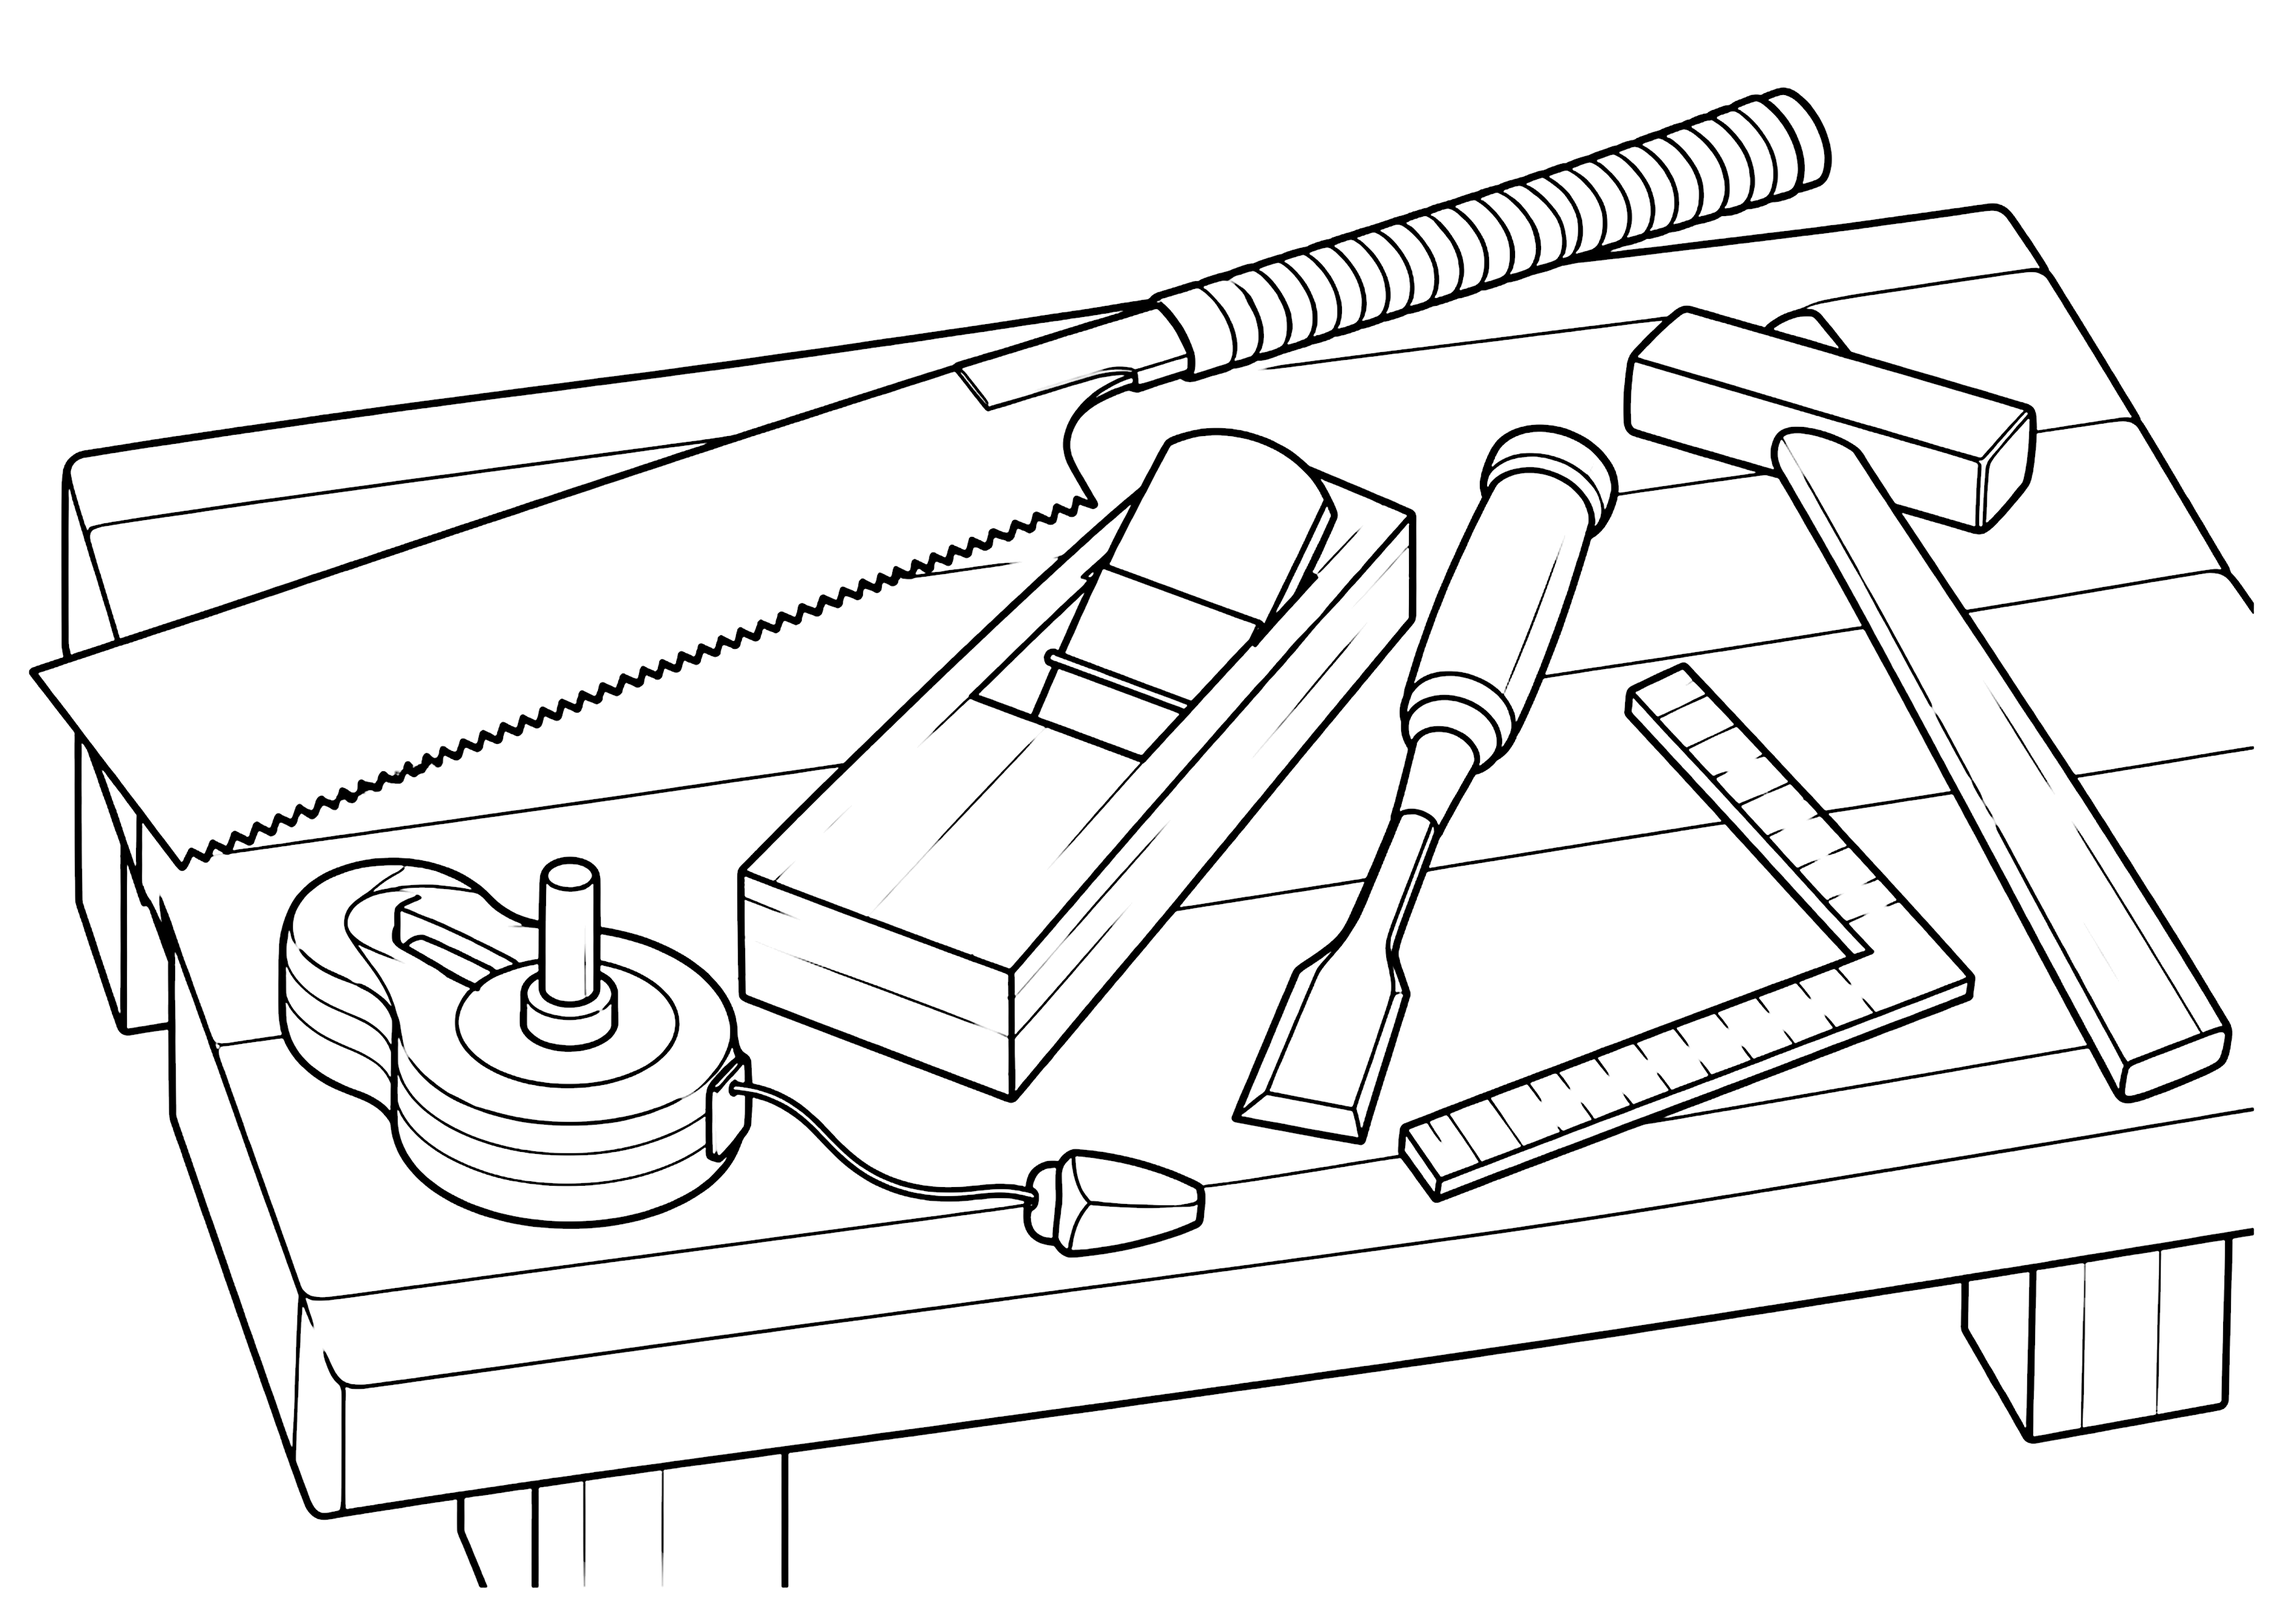
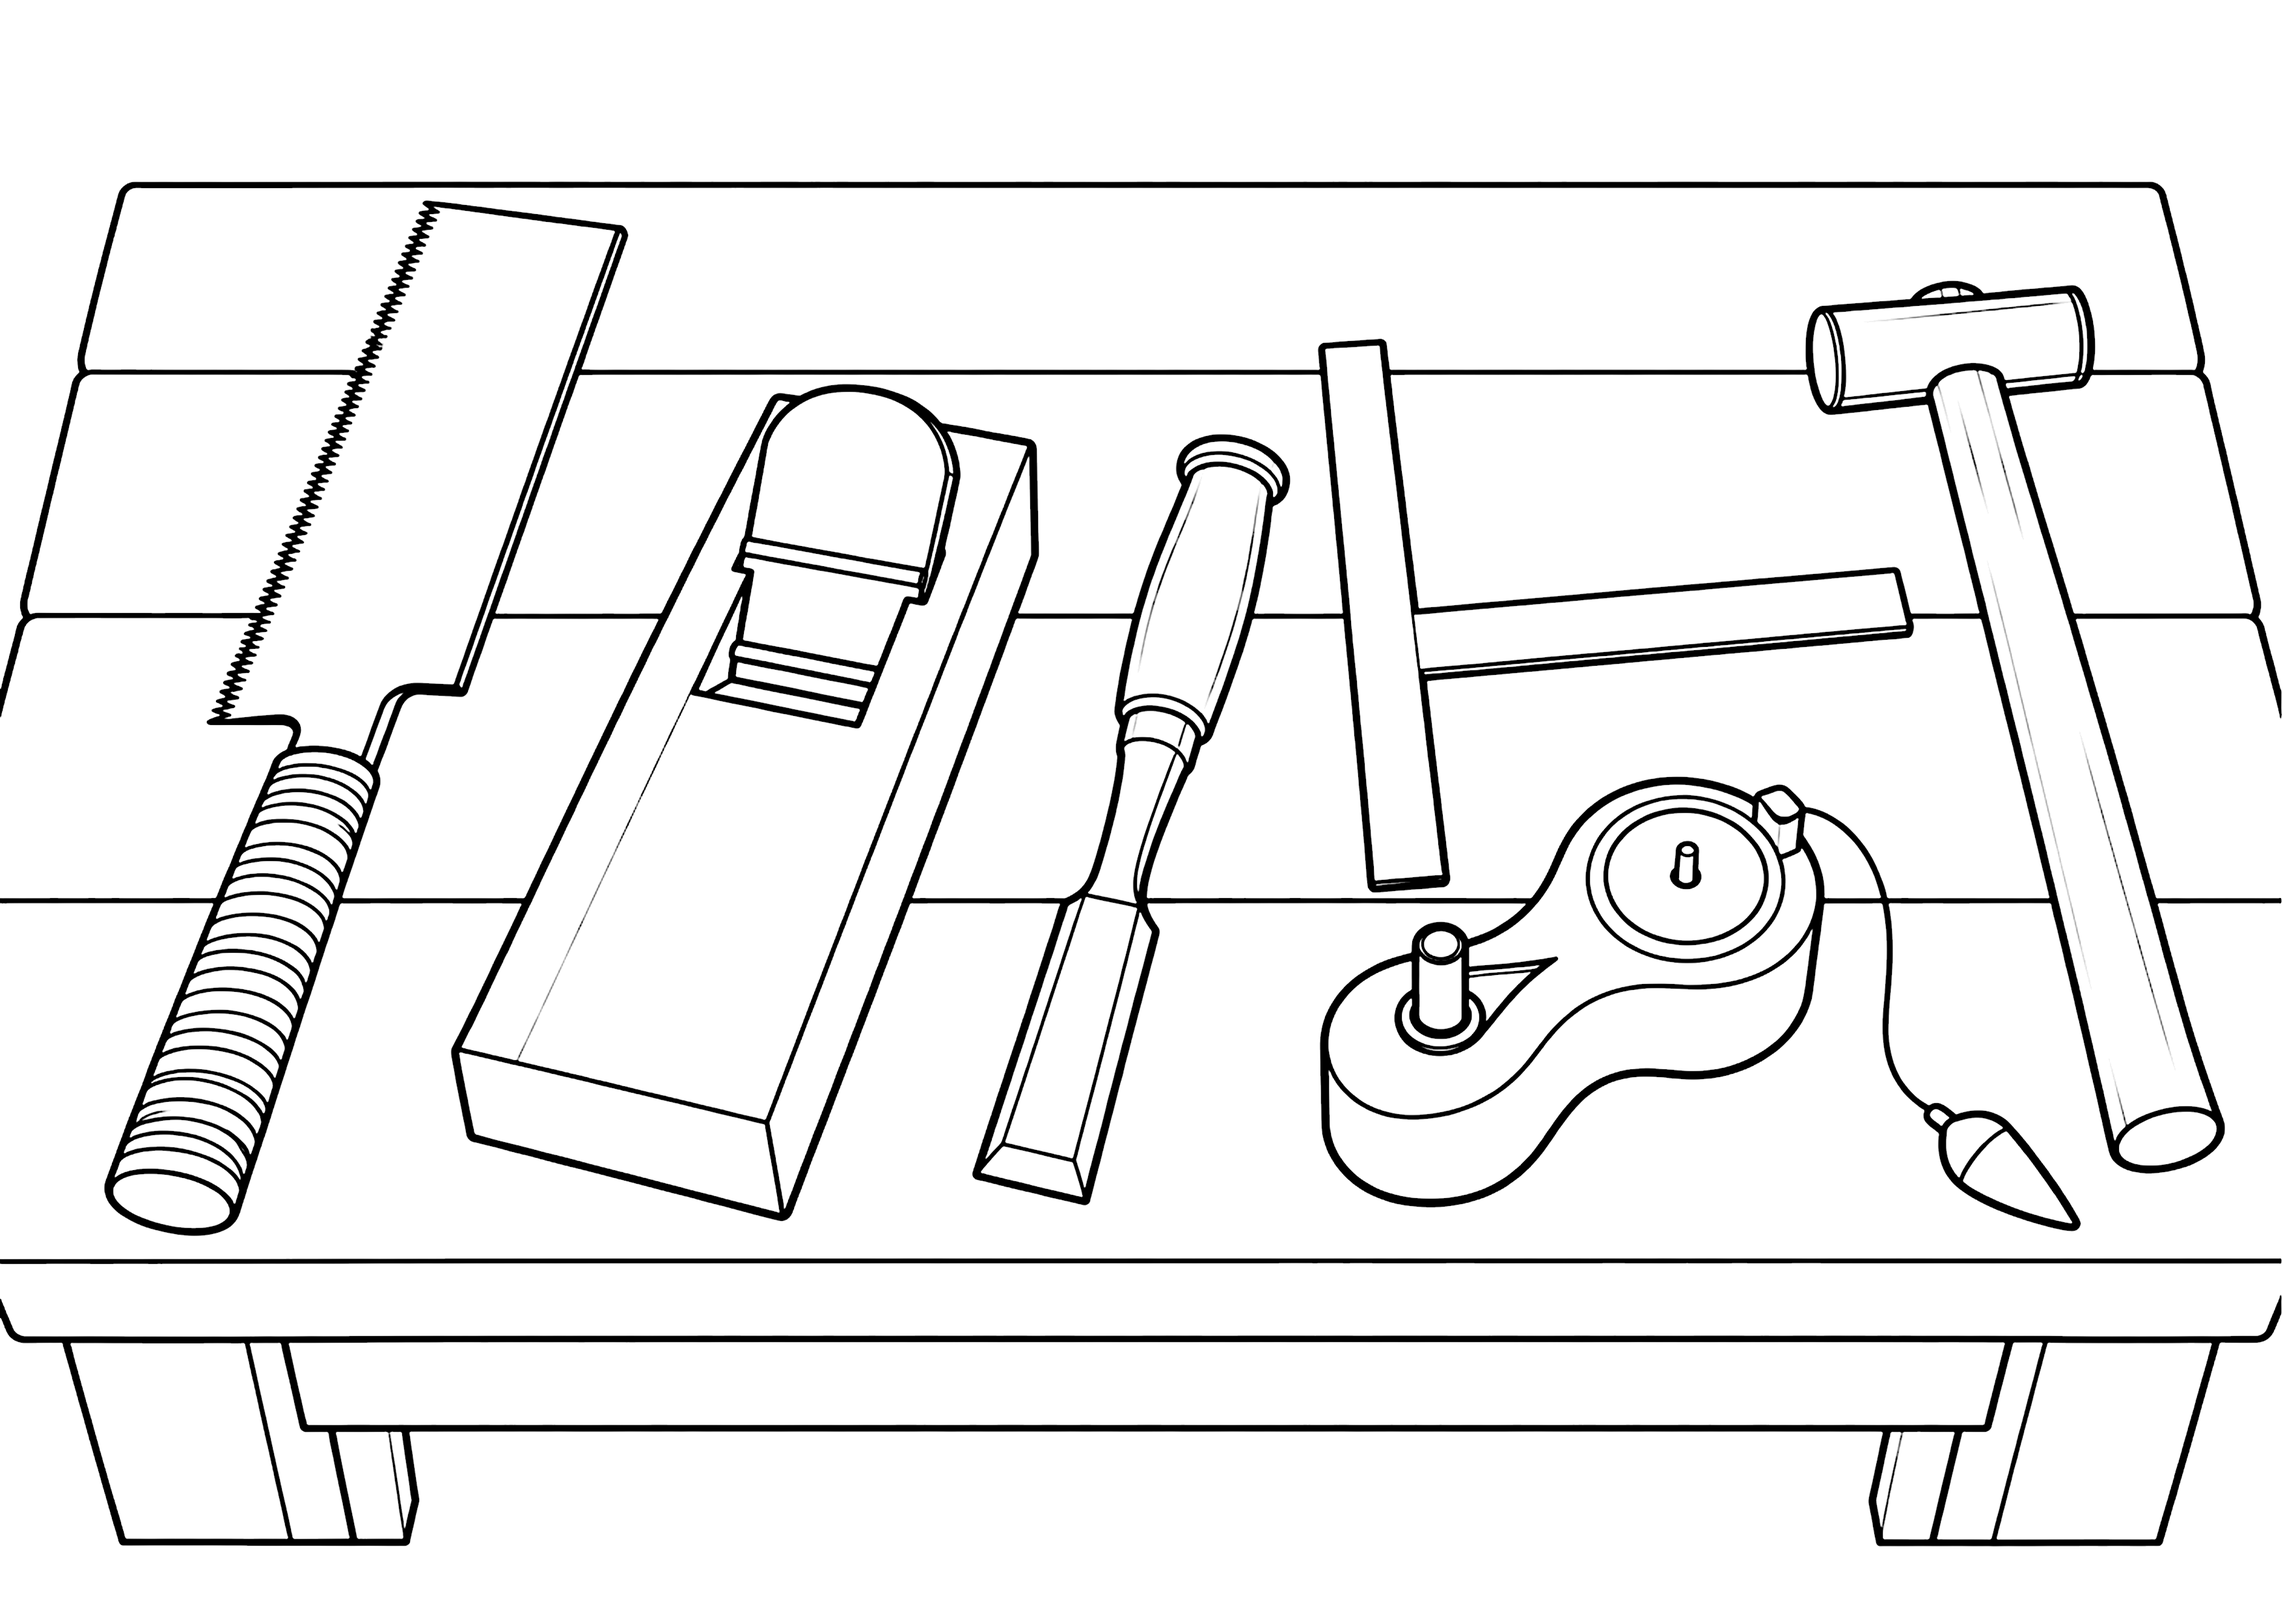
大工道具の線画と色見本を作り直し（玄翁の形を修正）
Claude-Session: https://claude.ai/code/session_01EPRbSQ3rtMhzgBwCAHuB7h

Changed region(s): [[0.0, 0.0621, 1.0, 0.9625], [0.9322, 0.1242, 0.9632, 0.1863], [0.9943, 0.4036, 1.0, 0.4347]]

diff --git a/data.js b/data.js
@@ -1061,7 +1061,7 @@ window.NURIE_LIST = [
   { season: "通年", genre: "乗り物", title: "路面電車", diff: "中級", file: "romen_densha_chu.png", sample: "romen_densha_chu_sample.jpg", added: "2026-10", date: "2026-10-31", v: "1793449639821" },
   { season: "通年", genre: "風景", title: "漁港と漁船", diff: "上級", file: "gyoko_jo.png", sample: "gyoko_jo_sample.jpg", added: "2026-10", date: "2026-10-31", v: "1793449639821" },
   { season: "通年", genre: "人物", title: "渓流釣り", diff: "中級", file: "keiryu_zuri_chu.png", sample: "keiryu_zuri_chu_sample.jpg", added: "2026-10", date: "2026-10-31", v: "1793449639821" },
-  { season: "通年", genre: "その他", title: "大工道具", diff: "初級", file: "daiku_dougu_sho.png", sample: "daiku_dougu_sho_sample.jpg", added: "2026-10", date: "2026-10-31", v: "1793449639821" },
+  { season: "通年", genre: "その他", title: "大工道具", diff: "初級", file: "daiku_dougu_sho.png", sample: "daiku_dougu_sho_sample.jpg", added: "2026-10", date: "2026-10-31", v: "1793451637883" },
   { season: "通年", genre: "人物", title: "草野球", diff: "中級", file: "kusayakyu_chu.png", sample: "kusayakyu_chu_sample.jpg", added: "2026-10", date: "2026-10-31", v: "1793451352088" },
   { season: "通年", genre: "風景", title: "灯台と海", diff: "中級", file: "toudai_chu.png", sample: "toudai_chu_sample.jpg", added: "2026-10", date: "2026-10-31", v: "1793449639821" },
   { season: "通年", genre: "乗り物", title: "帆船", diff: "上級", file: "hansen_jo.png", sample: "hansen_jo_sample.jpg", added: "2026-10", date: "2026-10-31", v: "1793449639821" },
